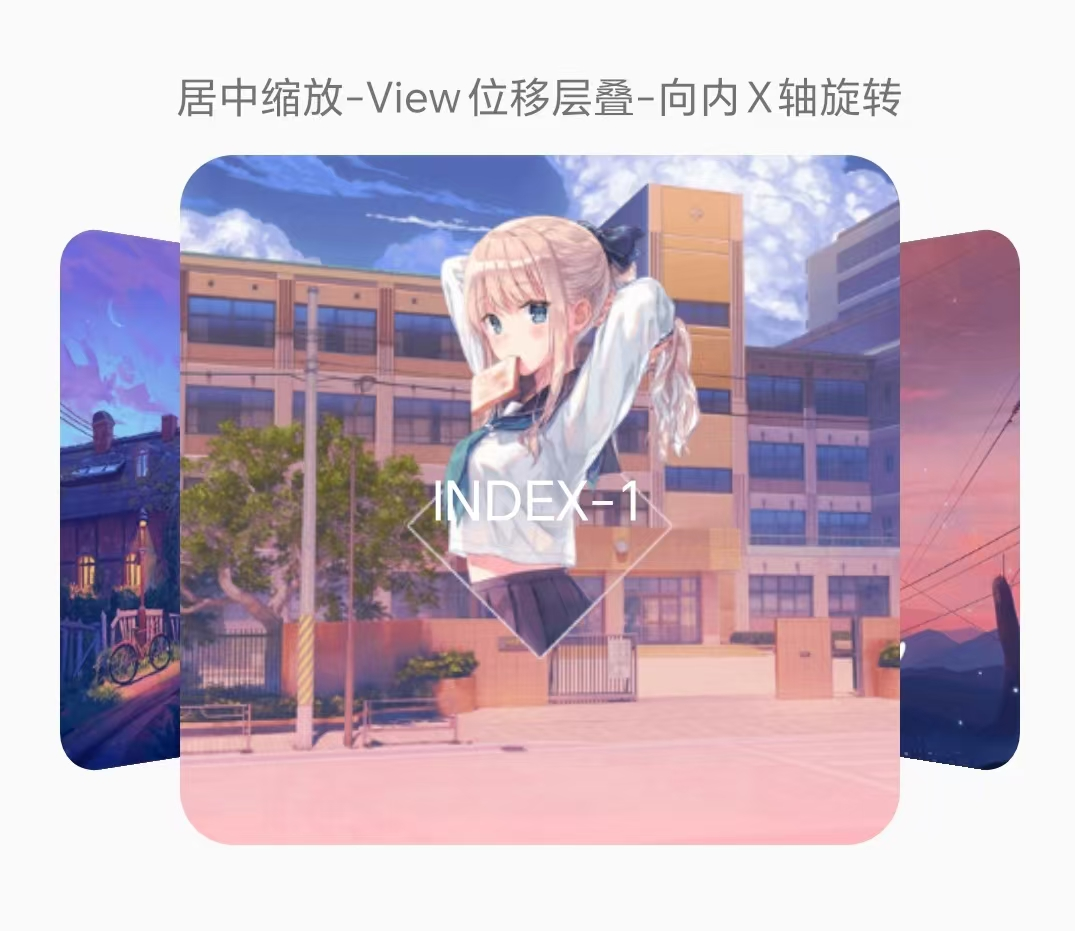
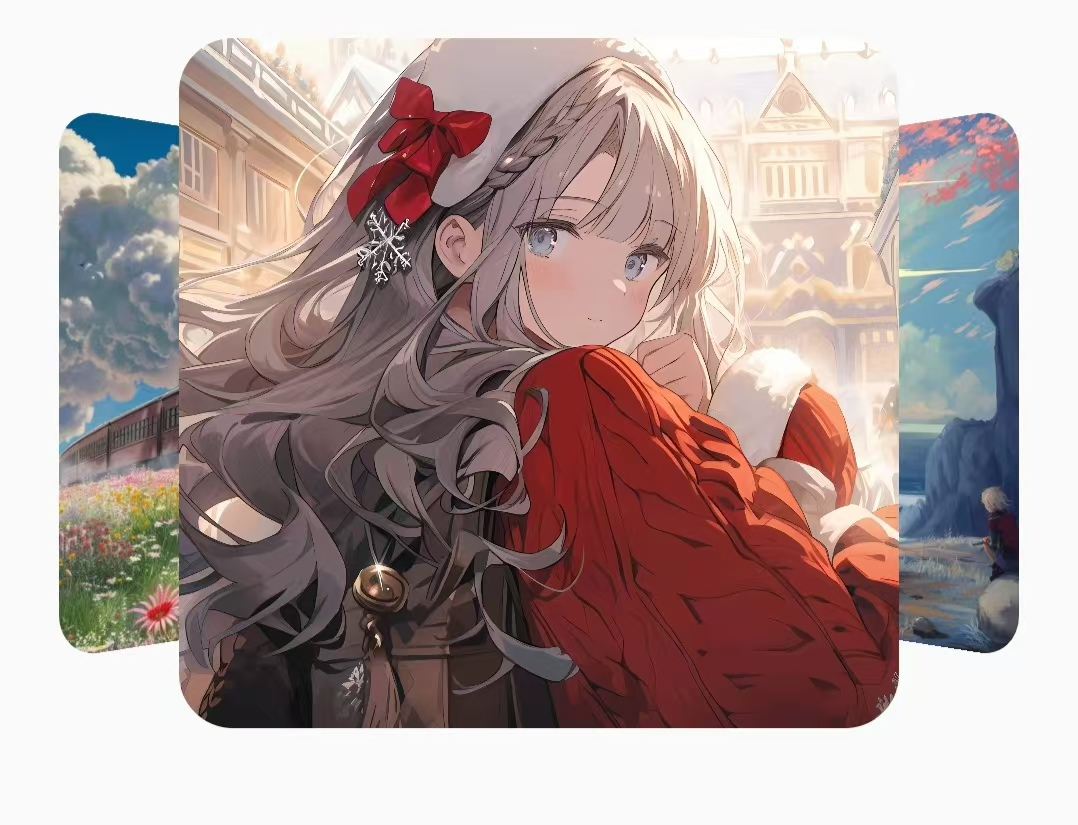
微调

diff --git a/banner_view/src/main/java/com/cuichen/banner_view/transformer/OverlapDeepAlphaTransformer.java b/banner_view/src/main/java/com/cuichen/banner_view/transformer/OverlapDeepAlphaTransformer.java
@@ -5,23 +5,23 @@
 
 package com.cuichen.banner_view.transformer;
 
-import android.util.Log;
 import android.view.View;
 
 import com.cuichen.banner_view.transformer.common.BasePageTransformer;
 
 /**
- * 左右压边重叠效果+深景效果
+ * 左右压边重叠效果+深景效果+透明度
  */
-public class OverlapDeepPageTransformer extends BasePageTransformer {
+public class OverlapDeepAlphaTransformer extends BasePageTransformer {
     private float mMinScale = 0.82F;  //View居中缩放
     private float translationX = 300F;  //X轴（横向）偏移差
     private float rotationY = 10F; //Y轴内侧旋转距离
+    private float mMinAlpha = 0.7F; //透明度
 
-    public OverlapDeepPageTransformer() {
+    public OverlapDeepAlphaTransformer() {
     }
 
-    public OverlapDeepPageTransformer(float minScale , float translationX , int rotationY) {
+    public OverlapDeepAlphaTransformer(float minScale , float translationX , int rotationY) {
         this.mMinScale = minScale;
         this.translationX = translationX;
         this.rotationY = rotationY;
@@ -37,6 +37,7 @@ public class OverlapDeepPageTransformer extends BasePageTransformer {
             view.setScaleX(mMinScale);
             view.setScaleY(mMinScale);
             view.setElevation(mMinScale);
+            view.setAlpha(mMinAlpha);
 
             view.setPivotX(0);
             view.setPivotY(pageHeight/2f);
@@ -47,6 +48,8 @@ public class OverlapDeepPageTransformer extends BasePageTransformer {
             float scaleFactor = this.mMinScale + (1.0F - this.mMinScale) * (1.0F - Math.abs(position));
             view.setScaleX(scaleFactor); //X轴缩放
             view.setScaleY(scaleFactor);
+            float scaleAlpha = this.mMinAlpha + (1.0F - this.mMinAlpha) * (1.0F - Math.abs(position));
+            view.setAlpha(scaleAlpha);
             view.setElevation(scaleFactor); //布局层级
 
             view.setPivotX(0);
@@ -60,6 +63,9 @@ public class OverlapDeepPageTransformer extends BasePageTransformer {
             view.setScaleY(scaleFactor);
             view.setElevation(scaleFactor);
 
+            float scaleAlpha = this.mMinAlpha + (1.0F - this.mMinAlpha) * (1.0F - Math.abs(position));
+            view.setAlpha(scaleAlpha);
+
             view.setPivotX(pageWidth);
             view.setPivotY(pageHeight/2f);
             view.setRotationY(-rotationY*Math.abs(position));
@@ -70,6 +76,7 @@ public class OverlapDeepPageTransformer extends BasePageTransformer {
             view.setScaleX(mMinScale);
             view.setScaleY(mMinScale);
             view.setElevation(mMinScale);
+            view.setAlpha(mMinAlpha);
 
             view.setPivotX(pageWidth);
             view.setPivotY(pageHeight/2f);
